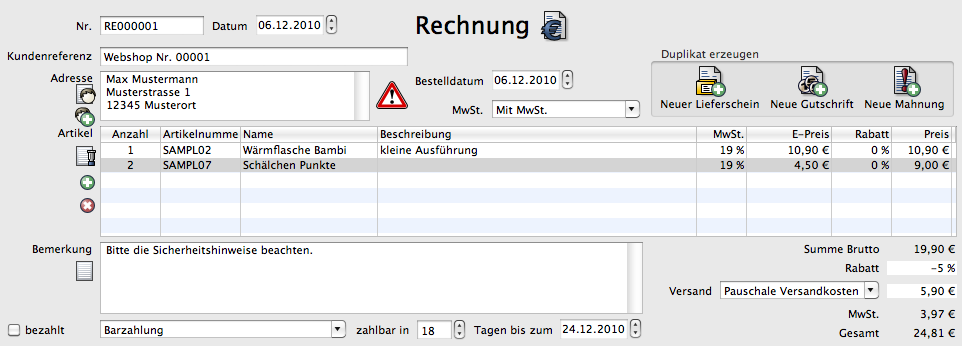
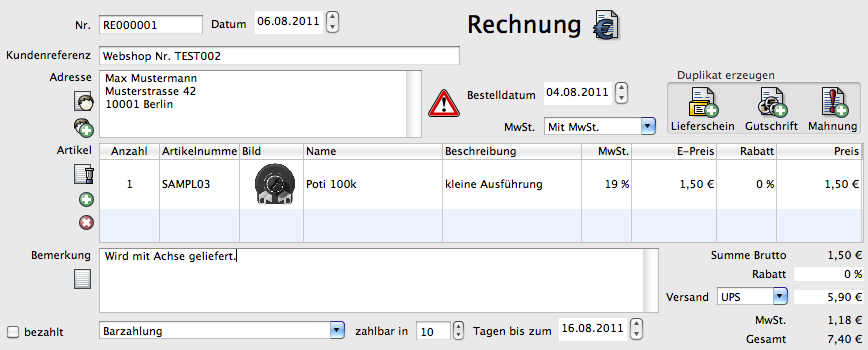
Updated screenshot pictures.

diff --git a/com.sebulli.fakturama.help/html/editor/editor_document.html b/com.sebulli.fakturama.help/html/editor/editor_document.html
@@ -16,6 +16,7 @@
 	<h2>Bestellstatistik</h2>
 	<p>Wird ein Dokument vom Typ <b>Bestellung</b> geöffnet, kann bei Stammkunden ein Dialog eingeblendet werden,
 	der die bisher bezahlten Rechnungen und den Umsatz anzeigt.</p>
+	<img class="screenshot" src="customer_statistics_dialog.png" alt="" /> <br />
 	<p class="see">Siehe auch <a href="../preferences/document.html#preferences_document_customer_statistics">Einstellungen Dokument</a></p>
 
 
@@ -84,14 +85,18 @@
 	Ein Klick auf dieses öffnet eine vergrößerte Ansicht des Produktbildes.</p>
 	<p class="see">Siehe auch <a href="../preferences/document.html#preferences_document_previewpicture">Einstellungen Dokument Vorschaubild</a></p>
 
-	<p>Ein Artikel kann als optionaler Artikel (Bedarfspostion) markiert werden.
-	Er wird auf der Rechnung als solche markiert und wird nicht bei der Berechnung der
+	<p>Bei einem Angebot kann ein Artikel als optionaler Artikel (Bedarfspostion) markiert werden.
+	Er wird auf dem Angebot markiert und wird nicht bei der Berechnung der
 	Gesamtsumme verwendet.</p>
+	<img class="screenshot" src="editor_document_optional_item.png" alt="" /> <br />
+	<p class="see">Siehe auch <a href="../preferences/optional_items.html">Einstellungen Bedarfspositionen</a></p>
 
 	<p>Artikel können nach oben und unten verschoben werden. 
 	Über das Kontextmenü (rechte Maustaste auf Artikelliste).</p>
+	<img class="icon" src="editor_document_context_menu.png" alt="" /> <br />
+	
 
-	<p><b>Tipp:</b>Sind alle Preise in Brutto, kann ein Preis dennoch als Nettowert eingegeben werden.
+	<p><b>Tipp:</b> Sind alle Preise in Brutto, kann ein Preis dennoch als Nettowert eingegeben werden.
 	Dazu bei der Eingabe des Preises ein <b>netto</b> anfügen. Bei Bruttopreisen ein <b>brutto</b> anfügen.</p>
 	<p>Beispiel:<b>7,00€ netto</b></p>
 

diff --git a/com.sebulli.fakturama.help/html/preferences/document.html b/com.sebulli.fakturama.help/html/preferences/document.html
@@ -33,18 +33,22 @@
 	<a name="preferences_document_previewpicture" ></a>
 	<h2>Vorschaubild anzeigen</h2>
 	<p>Im Dokumenteneditor wird ein zusätzliche Spalte mit dem Produktbild eingefügt.</p>
+	<img class="screenshot" src="product_preview.png" alt="" />
 	<p class="see">Siehe auch <a href="../editor/editor_document.html#editor_document_previewpicture">Dokumenteneditor</a></p>
 
 	<h2>Rabatt auf einzelne Artikel benutzen</h2>
 	<p>Die Spalte <b>Rabatt</b> in der Artikelliste wird ein- oder ausgeblendet.</p>
+	<img class="screenshot" src="discount_item.png" alt="" />
 
 	<h2>Rabatt auf alle Artikel benutzen</h2>
 	<p>Die Zeile <b>Rabatt</b> auf alle Artikel wird ein- oder ausgeblendet.</p>
+	<img class="screenshot" src="discount_items.png" alt="" />
 
 	<a name="preferences_document_customer_statistics" ></a>
 	<h2>Dialog bei Stammkunden anzeigen</h2>
 	<p>Ist diese Einstellung aktiv, wird beim Öffnen einer Bestellung geprüft, ob der Kunde in der Vergangenheit
 	bereits bestellt hat. Umsatz und Anzahl der bezahlten Rechnungen werden in einem Dialog angezeigt.</p>
+	<img class="screenshot" src="../editor/customer_statistics_dialog.png" alt="" />
 
 	<h2>Vergleichen:</h2>
 	<p>Legt fest, welche Dokumente beim Überprüfen eines Stammkunden verwendet werden.</p>
